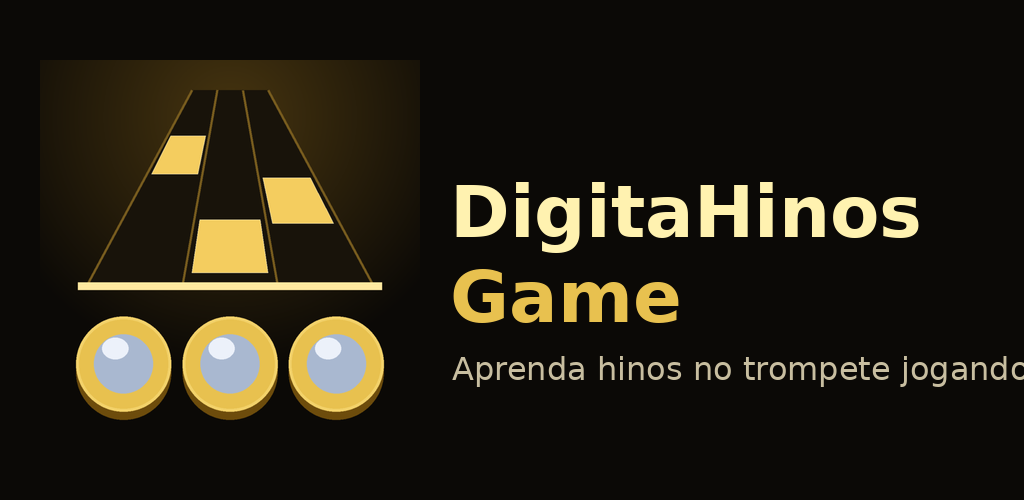
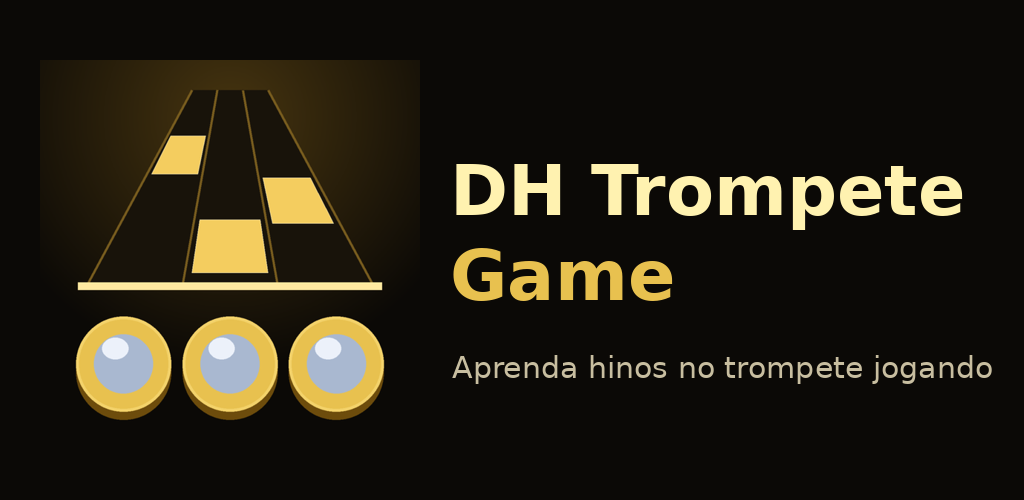
Add files via upload

Changed region(s): [[0.4375, 0.33, 0.9375, 0.66], [0.4375, 0.72, 1.0, 0.78]]

diff --git a/privacy.html b/privacy.html
@@ -3,15 +3,15 @@
 <head>
 <meta charset="UTF-8">
 <meta name="viewport" content="width=device-width, initial-scale=1">
-<title>Política de Privacidade - DigitaHinos Game</title>
+<title>Política de Privacidade - DH Trompete Game</title>
 <style>body{font-family:sans-serif;max-width:700px;margin:2rem auto;padding:0 1rem;line-height:1.6}</style>
 </head>
 <body>
-<h1>Política de Privacidade - DigitaHinos Game</h1>
+<h1>Política de Privacidade - DH Trompete Game</h1>
 <p>Última atualização: 23 de novembro de 2026</p>
 
 <h2>Dados pessoais</h2>
-<p>O DigitaHinos Game não exige cadastro ou login, não contém anúncios e não usa ferramentas de análise ou rastreamento. Eu não coleto nem compartilho dados pessoais.</p>
+<p>O DH Trompete Game não exige cadastro ou login, não contém anúncios e não usa ferramentas de análise ou rastreamento. Eu não coleto nem compartilho dados pessoais.</p>
 
 <h2>Dados guardados no seu aparelho</h2>
 <p>Suas configurações (voz, velocidade, modo de jogo, volume e outras preferências), seus recordes e estrelas e o último hino jogado ficam guardados apenas no seu dispositivo, dentro do app. Nada disso é enviado para mim.</p>

diff --git a/README.md b/README.md
@@ -1,15 +1,18 @@
-# DigitaHinos Game (Trompete)
+# DH Trompete Game
 
 Game estilo Guitar Hero para aprender os hinos no trompete.
 
 - **Telas:** início, escolha do hino (busca por número/título, com estrelas), configurações e o game.
-- **Jogo:** as notas descem em 3 colunas (pistos 1, 2 e 3). Nota que usa dois ou três pistos aparece em várias colunas ligadas; nota larga ("ABERTO") = nenhum pisto, toque na barra ABERTO. Ao acertar, a nota toca (som de trompete).
-- **Vozes:** soprano, contralto, tenor ou baixo. Tenor e baixo sobem 1 oitava e depois são encaixados no alcance do trompete (mesma regra do DigitaHinos Trompete). As outras vozes tocam sozinhas como acompanhamento (pode desligar).
-- **Trompete:** Si♭ (padrão) ou Dó; a digitação usa a mesma tabela do app DigitaHinos Trompete.
-- **Modos:** Normal (precisa da digitação certa) e Fácil (basta tocar no tempo). Velocidade do hino de 40% a 120%, tolerância de tempo, velocidade da queda, nomes das notas (Dó Ré Mi ou C D E), ajuste de atraso do som.
-- **Teclado (computador):** J K L (ou 1 2 3) = pistos, Espaço = aberto, Esc = pausa.
+- **Jogo (simulação do instrumento):** as notas descem em 3 colunas (pistos 1, 2 e 3). Na hora da nota, seus dedos precisam estar na **posição** dela. Não é preciso bater: o jogo reconhece a posição.
+  - **Nota solta** (barra larga "SOLTA") = nenhum pisto: tire os dedos da tela.
+  - **Nota repetida:** continue segurando o(s) pisto(s); o novo "sopro" é reconhecido sozinho.
+  - Ao acertar, a nota toca (som de trompete).
+- **Vozes:** soprano, contralto, tenor ou baixo. Tenor e baixo sobem 1 oitava e depois são encaixados no alcance do trompete. As outras vozes tocam sozinhas como acompanhamento (pode desligar).
+- **Trompete:** Si♭ (padrão) ou Dó; a digitação usa a tabela do app DigitaHinos Trompete.
+- **Modos:** Normal (digitação) e Fácil (basta tocar no tempo). Velocidade do hino de 40% a 120%, tolerância de tempo, velocidade da queda, nomes das notas, ajuste de atraso do som.
+- **Teclado (computador):** J K L (ou 1 2 3) = pistos, Esc = pausa.
 
 ## Publicar
 Suba tudo no GitHub Pages. A cada versão nova, mude `CACHE_NAME` em `sw.js`.
-Para o APK: Actions → "Gerar APK" (mesmo fluxo dos outros apps; usa os mesmos *secrets* de assinatura).
+Para o APK: Actions → "Gerar APK" (usa os mesmos *secrets* de assinatura dos outros apps).
 Os hinos ficam em `hinos/` (arquivos .mxl + `index.json`).
